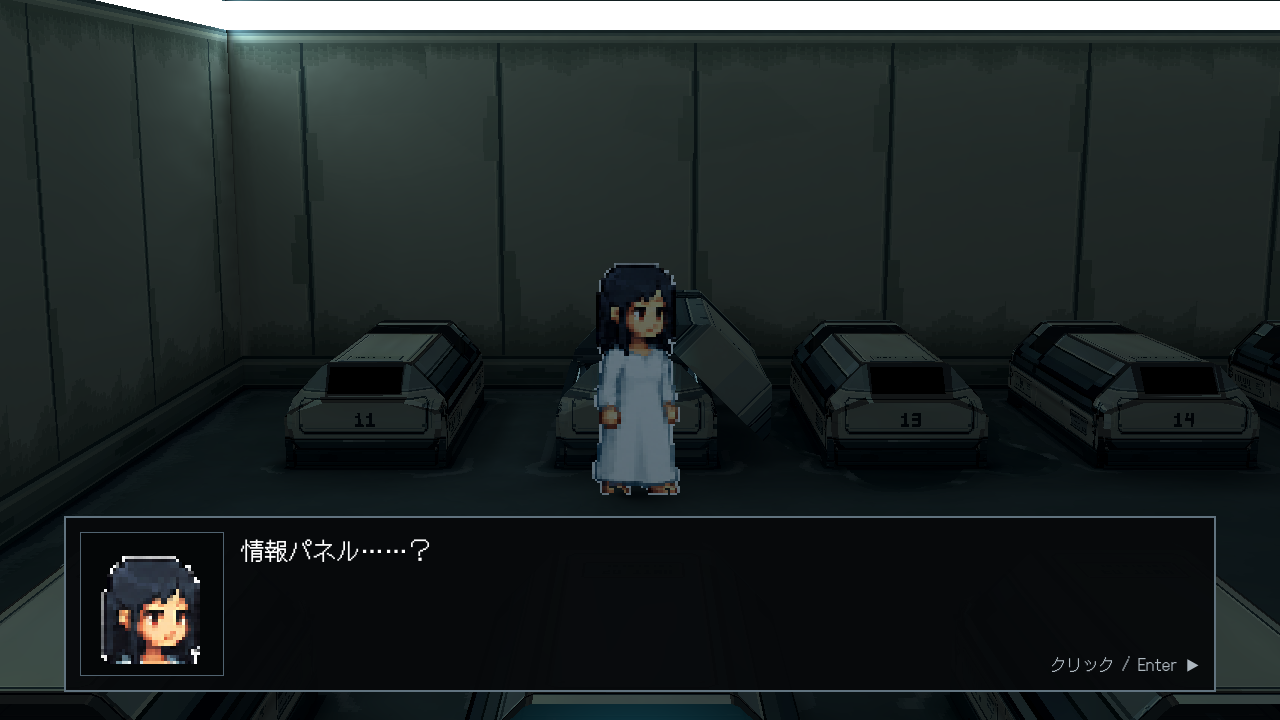
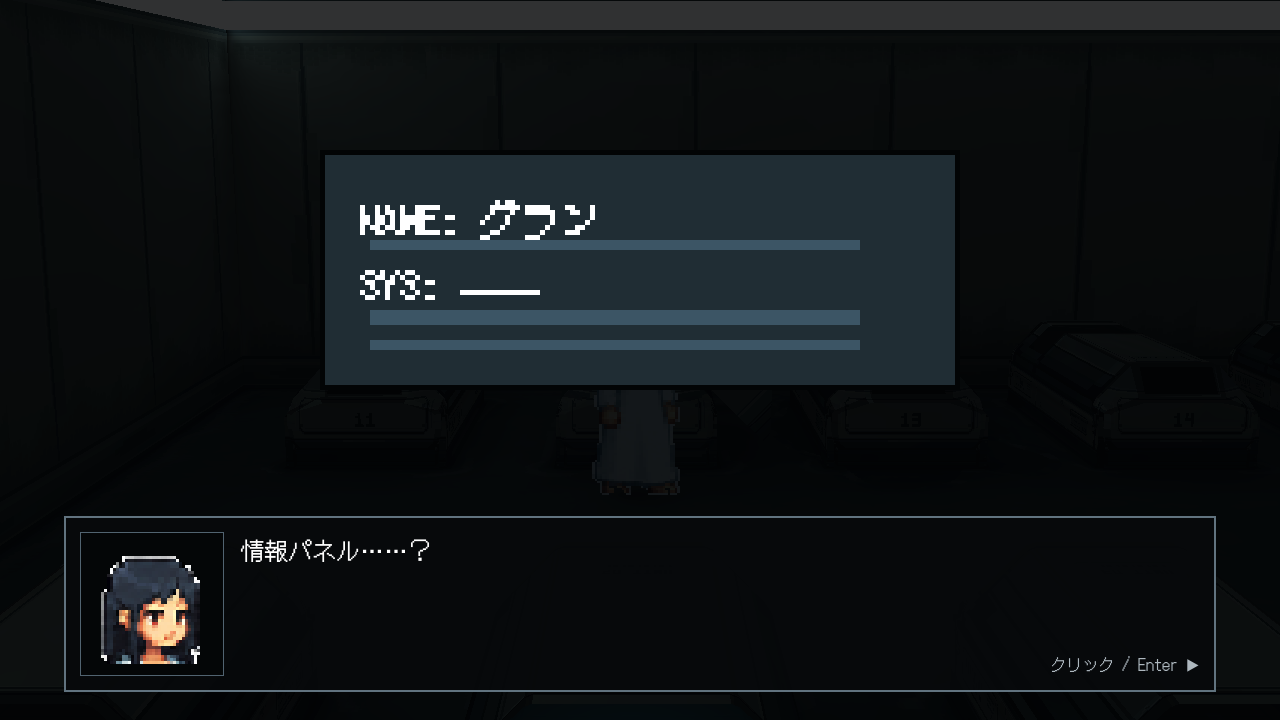
Show existing pod screen texture in investigation overlay

diff --git a/docs/art/experiments/room1_door_sensor_r1/README.md b/docs/art/experiments/room1_door_sensor_r1/README.md
@@ -6,7 +6,7 @@
 
 开场自动出现两句「あ……頭、痛い……。」「ここは……どこ？」；Enter 翻页，Esc 可关闭，结束后恢复操作。同一次游戏运行内再次进入不重复播放，新游戏重置后可再播放。
 
-靠近 P12 按 E，可调查主角自己的休眠舱，显示「情報パネル……？」「グラン……私の名前、みたい。」；P12 屏幕的 NAME 显示「グラン」。之后可考虑在游戏画面上叠加信息面板等调查特写，不移动游戏镜头；当前尚无特写图。其他舱和其他物件台词尚未加入。Enter 翻页，Esc 关闭，显示对话时角色移动锁定。
+靠近 P12 按 E，可调查主角自己的休眠舱：原画面变暗，现有 128×48 屏幕贴图放大叠在画面上，不移动游戏镜头，叠层使用与 P12 屏幕相同的动态 NAME／SYS 内容和进度条，NAME 显示「グラン」。两句台词是「情報パネル……？」「グラン……私の名前、みたい。」；Enter 翻页，Esc 关闭，关闭后画面和移动恢复。屏幕断电时只显示屏幕关闭提示，不展示亮着的特写。其他舱和其他物件台词尚未加入。
 
-运行 `scripts/dev/verify_room1_door_sensor_r1.gd`，检查开场台词与不重复播放、无芯片阻挡、扫描先于开门、慢速滑动、门板和碰撞同步、黑色门洞、不能走出、出口按键、门口防夹、离开自动关门、舱体台词及对话锁定，均通过。`capture.gd` 生成 `evidence/` 下的真实 Godot 截图。旧门板仍是占位，扫描线是临时视觉提示，房间静态烘焙没有为动态门更新。正式主场景未切换。
+运行 `scripts/dev/verify_room1_door_sensor_r1.gd`，检查开场台词、门、舱体台词、信息图叠层、镜头不移动、关电和退出对话，均通过。`capture.gd` 生成 `evidence/` 下的真实 Godot 截图。叠层用 `room1_pod_detail_overlay.gdshader` 复现 v8.1 屏幕的窄边显示和实时文字；没有改动源图或原舱体。旧门板仍是占位，扫描线是临时视觉提示，房间静态烘焙没有为动态门更新。正式主场景未切换。
 
